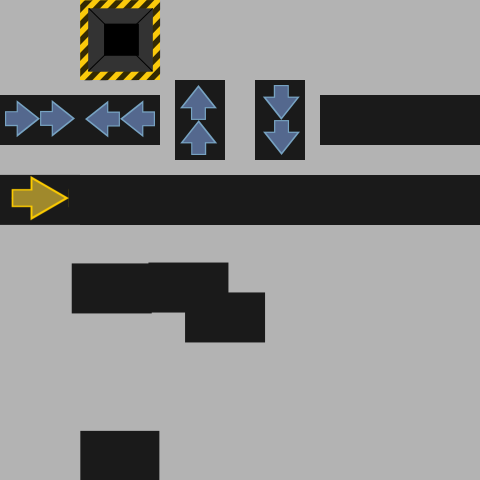
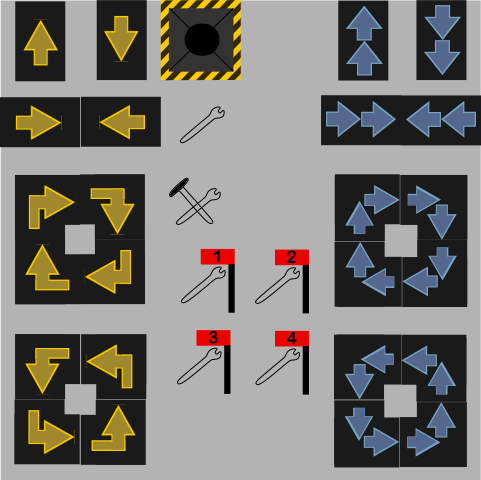
changed tilemap

diff --git a/assets/drawingtestFredag.tsx b/assets/drawingtestFredag.tsx
@@ -1,0 +1,4 @@
+<?xml version="1.0" encoding="UTF-8"?>
+<tileset version="1.2" tiledversion="1.2.2" name="drawingtest" tilewidth="80" tileheight="80" tilecount="36" columns="6">
+ <image source="drawingtest.png" width="481" height="480"/>
+</tileset>

diff --git a/src/main/java/inf112/skeleton/app/GFX.java b/src/main/java/inf112/skeleton/app/GFX.java
@@ -32,7 +32,7 @@ public class GFX extends ApplicationAdapter implements InputProcessor{
         camera = new OrthographicCamera();
         camera.setToOrtho(false, w, h);
         camera.update();
-        tiledMap = new TmxMapLoader().load("assets/testLIb.tmx");
+        tiledMap = new TmxMapLoader().load("assets/testFredag.tmx");
         tiledMapRenderer = new OrthogonalTiledMapRenderer(tiledMap);
         Gdx.input.setInputProcessor(this);
 

diff --git a/src/main/java/inf112/skeleton/app/Main.java b/src/main/java/inf112/skeleton/app/Main.java
@@ -12,8 +12,8 @@ public class Main {
     public static void main(String[] args) {
         LwjglApplicationConfiguration cfg = new LwjglApplicationConfiguration();
         cfg.title = "Board";
-        cfg.width = 1200;
-        cfg.height = 1200;
+        cfg.width = 960;
+        cfg.height = 960;
 
         new LwjglApplication(new GFX(), cfg);
     }
